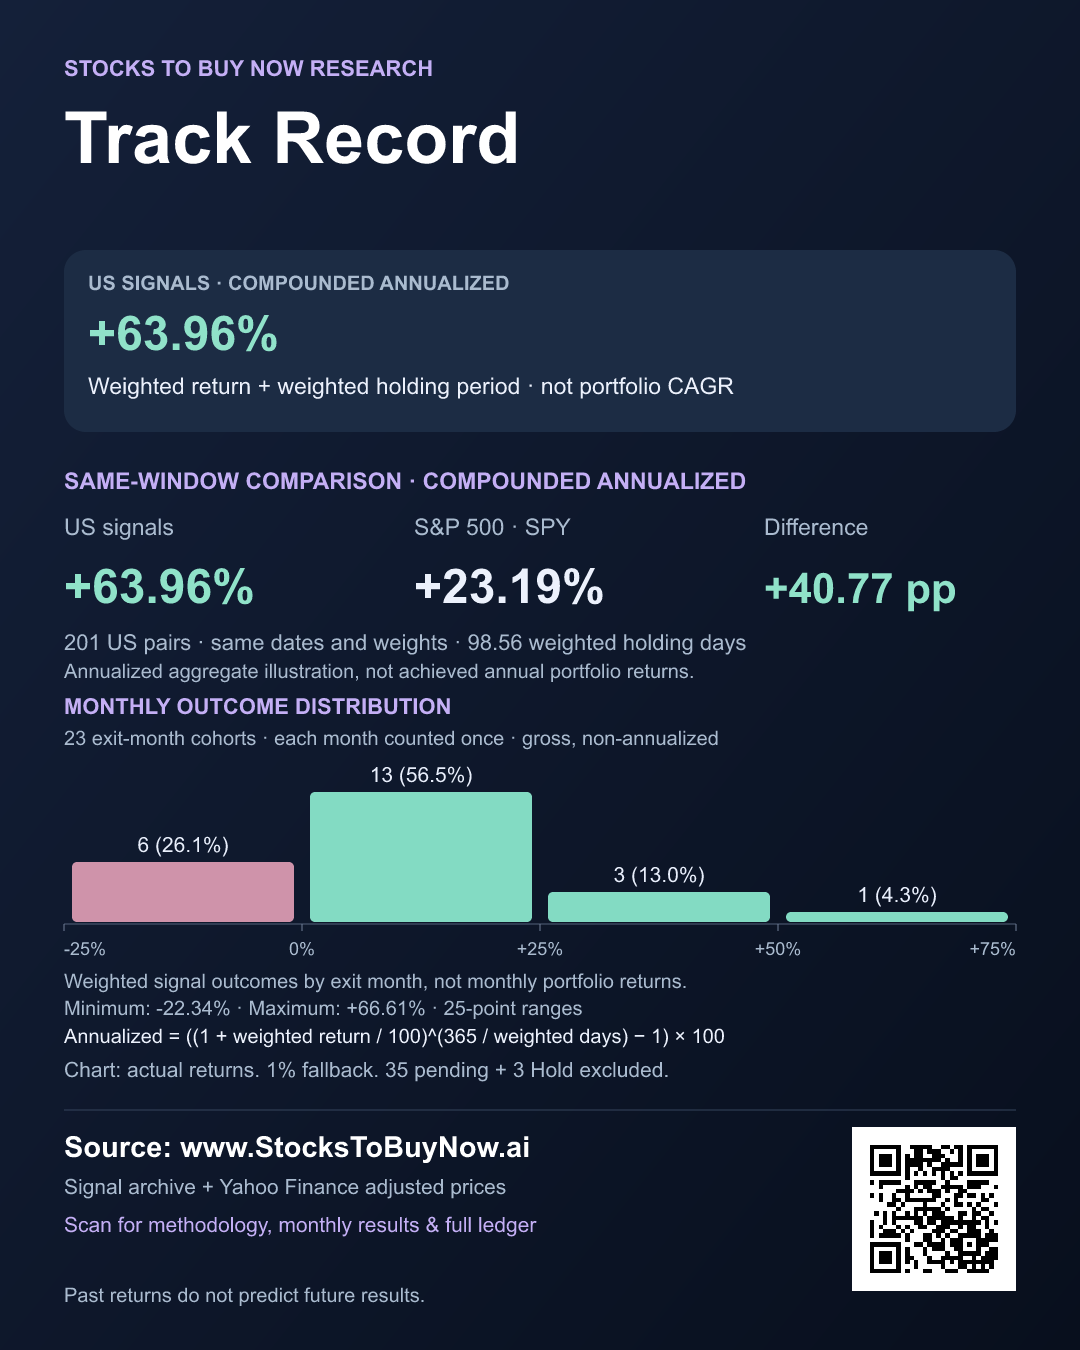
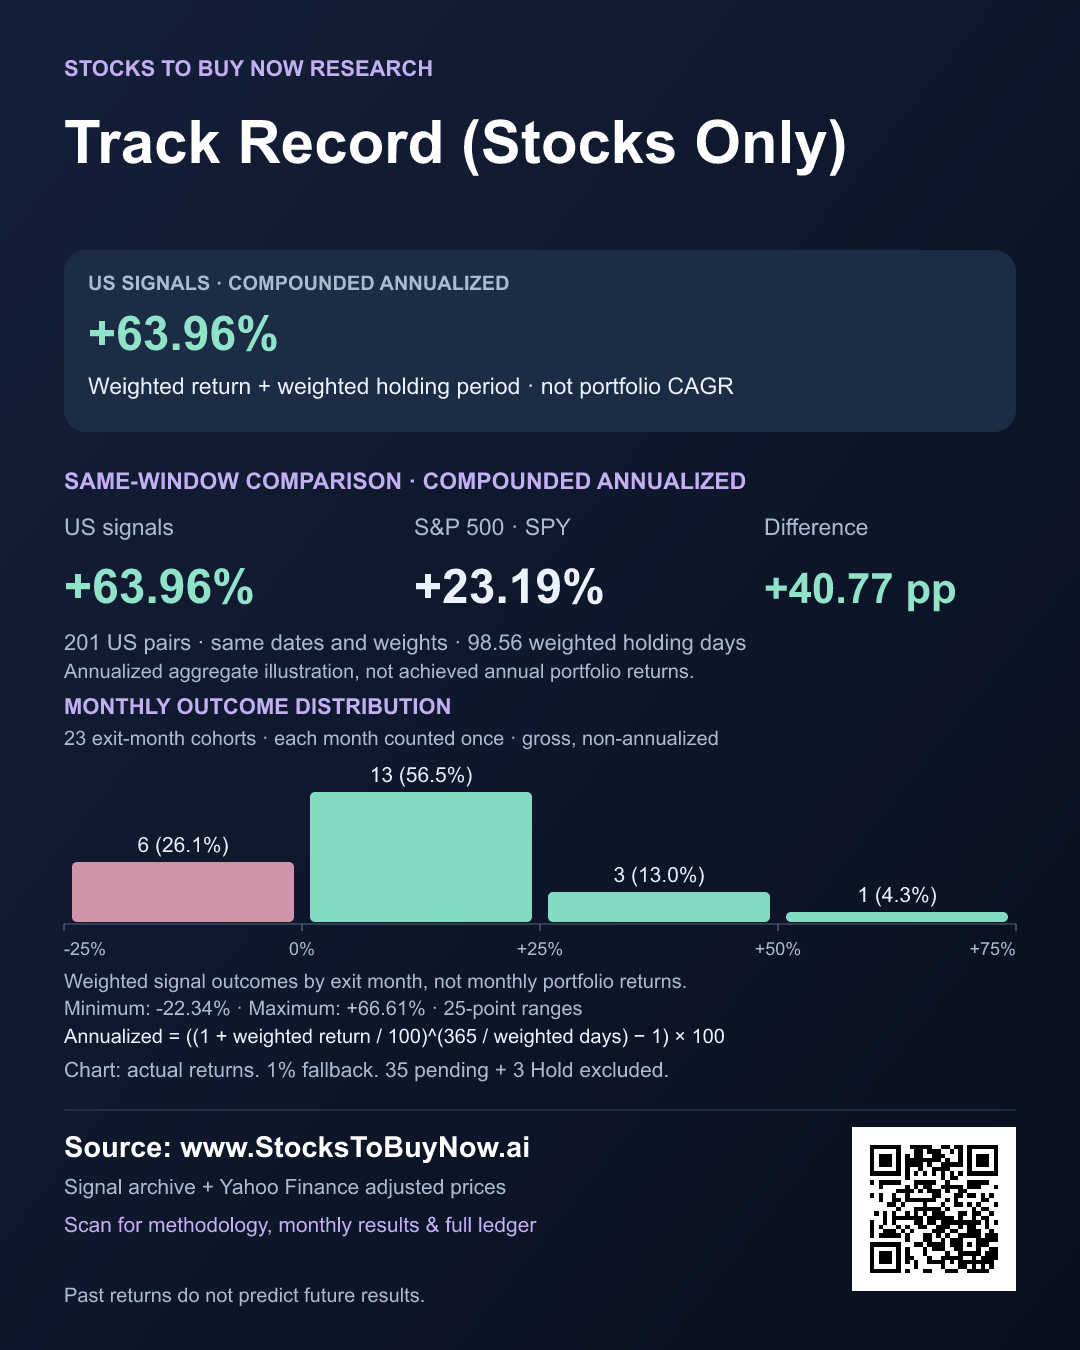
Publish local methodology and stocks-only track record updates (#8)

Changed region(s): [[0.0611, 0.0622, 0.7944, 0.1244]]

diff --git a/pages/methodology.tsx b/pages/methodology.tsx
@@ -31,7 +31,7 @@ export default function Methodology({appView=false}:{appView?:boolean}={}) {
     <div><span>Estimated net average</span><strong>{pct(s.estimatedNetReturn20bpsPct)}–{pct(s.estimatedNetReturn10bpsPct)}</strong><small>After 0.20%–0.10% assumed round-trip friction</small></div>
     <div><span>Weighted holding period</span><strong>{s.meanHoldingDays.toFixed(1)} days</strong><small>Calendar days from model entry to exit</small></div>
    </div><p className="scope">{s.completed} completed signals in the overall averages. The US comparison covers {s.benchmarkPairs}; the other {s.completed-s.benchmarkPairs} are European listings, measured in their listing currencies.</p>
-   <p className="scope">Compounded annualized = ((1 + weighted gross return ÷ 100)^(365 ÷ weighted-average holding days) − 1) × 100. We annualize the final weighted return using the {annual.weightedHoldingDays.toFixed(2)}-day weighted-average holding period across {annual.pairedCount} matching US and SPY windows. This is an annualized illustration of the aggregate, not achieved portfolio growth or a forecast.</p>
+   <p className="scope">Compounded annualized = ((1 + weighted gross return ÷ 100)^(365 ÷ weighted-average holding days) − 1) × 100. We annualize the final weighted return using the {annual.weightedHoldingDays.toFixed(2)}-day weighted-average holding period across {annual.pairedCount} matching US and SPY windows. </p>
    <figure className="distribution" aria-labelledby="monthly-distribution-title">
     <figcaption><h2 id="monthly-distribution-title">Monthly outcome distribution</h2><p>All {monthlyReturns.length} exit-month cohorts · each month counted once · weighted gross, non-annualized signal returns.</p></figcaption>
     <div className="distribution-range"><span>Minimum <b>{pct(monthlyMin)}</b></span><span>Maximum <b>{pct(monthlyMax)}</b></span></div>
